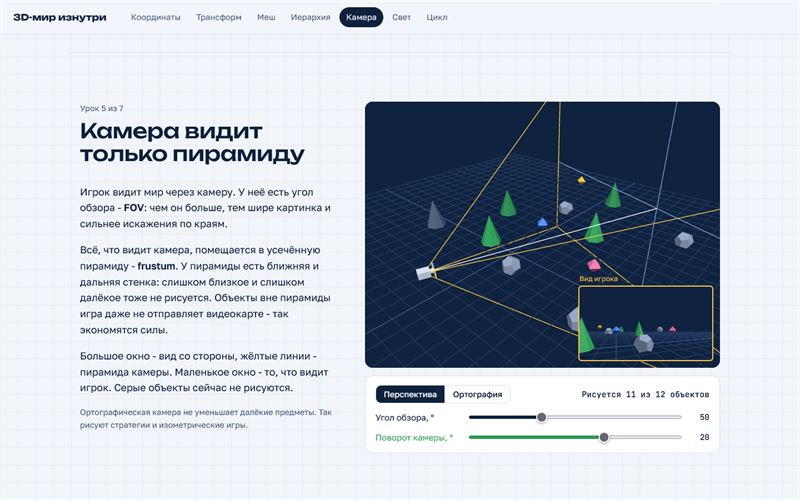
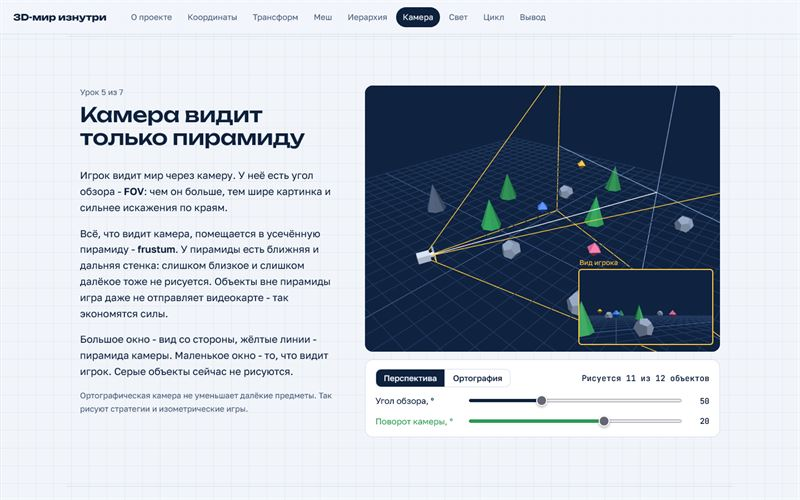
3D-мир в играх: сайт оформлен как проектная работа
- новые скриншоты живого сайта: пометка «Проектная работа» на первом
  экране, разделы «О проекте» (паспорт проекта) и «Вывод» с источниками
- разбор: в «Что сделано» разделы «О проекте» и «Вывод и источники»,
  сетка 2×3 из скриншотов, 2 коммита и 2034 строки вместо 1 и 1917
- галерея на главной: снимок раздела «О проекте»

Changed region(s): [[0.4375, 0.15, 0.9062, 0.9], [0.0938, 0.18, 0.4062, 0.87], [0.1562, 0.0, 0.6875, 0.06]]

diff --git a/ru/cases/3d-space-in-games/index.html b/ru/cases/3d-space-in-games/index.html
@@ -57,15 +57,15 @@
     <p class="case-lead reveal d1">Интерактивный учебник для защиты студенческого проекта: семь коротких уроков о том, как игры хранят и рисуют трёхмерный мир. В каждом уроке живая 3D-сцена, которую можно покрутить руками, а на первом экране робот идёт туда, куда кликнули.</p>
     <dl class="case-facts reveal d2">
       <div><dt>Тип</dt><dd>Проектная работа на заказ для студента, защищена на «отлично»</dd></div>
-      <div><dt>Сроки</dt><dd>27 сентября 2026, 1&nbsp;коммит</dd></div>
-      <div><dt>Стек</dt><dd>HTML, CSS, JavaScript и three.js без сборщика · 1917&nbsp;строк</dd></div>
+      <div><dt>Сроки</dt><dd>27 сентября 2026, 2&nbsp;коммита</dd></div>
+      <div><dt>Стек</dt><dd>HTML, CSS, JavaScript и three.js без сборщика · 2034&nbsp;строки</dd></div>
       <div><dt>Ссылки</dt><dd><a href="https://strangehul1-design.github.io/3d-space-in-games/" target="_blank" rel="noopener">живая страница&nbsp;↗</a><br><a href="https://github.com/strangehul1-design/3d-space-in-games" target="_blank" rel="noopener">код на GitHub&nbsp;↗</a></dd></div>
     </dl>
     <div class="shot-row reveal d3">
       <div>
         <button class="frame" type="button" data-gallery="shots" data-index="0" aria-label="Увеличить: первый экран на компьютере">
           <span class="frame__bar" translate="no">strangehul1-design.github.io/3d-space-in-games/</span>
-          <img src="../../../assets/img/cases/3d-space-in-games/sp-hero-1440-800.jpg" srcset="../../../assets/img/cases/3d-space-in-games/sp-hero-1440-800.jpg 800w, ../../../assets/img/cases/3d-space-in-games/sp-hero-1440-1440.jpg 1440w" sizes="(max-width: 1100px) 100vw, 55vw" width="1440" height="900" alt="Первый экран: заголовок «Как устроен 3D-мир в играх», справа 3D-робот на сетке с осями X, Y, Z идёт к зелёной метке, внизу координаты под курсором" fetchpriority="high">
+          <img src="../../../assets/img/cases/3d-space-in-games/sp-hero-1440-800.jpg" srcset="../../../assets/img/cases/3d-space-in-games/sp-hero-1440-800.jpg 800w, ../../../assets/img/cases/3d-space-in-games/sp-hero-1440-1440.jpg 1440w" sizes="(max-width: 1100px) 100vw, 55vw" width="1440" height="900" alt="Первый экран: пометка «Проектная работа», заголовок «Как устроен 3D-мир в играх», справа 3D-робот на сетке с осями X, Y, Z идёт к зелёной метке, внизу координаты под курсором" fetchpriority="high">
         </button>
         <p class="shot-caption">Первый экран: робот идёт к точке клика, ширина 1440px.</p>
       </div>
@@ -89,7 +89,7 @@
       <div class="case-block__label"><p class="kicker">01</p><h2 id="why">Для кого и зачем</h2></div>
       <div class="case-block__content prose">
         <p>Заказ от студента: ему нужен был сайт для защиты проекта о том, как устроено трёхмерное пространство в играх. Тема абстрактная — координаты, матрицы, камеры, — и на словах её легко потерять. Задача была показать каждое понятие так, чтобы его можно было потрогать: подвинуть ползунок, повернуть камеру, кликнуть по полу.</p>
-        <p>Поэтому каждый урок устроен одинаково: слева короткий текст простым языком, справа живая сцена и табло с цифрами, которые меняются вместе с ней. Проект защищён на «отлично».</p>
+        <p>Поэтому каждый урок устроен одинаково: слева короткий текст простым языком, справа живая сцена и табло с цифрами, которые меняются вместе с ней. Сам сайт оформлен как проектная работа: в начале актуальность, цель и задачи, в конце вывод и источники, а каждая задача ведёт к своему уроку. Проект защищён на «отлично».</p>
       </div>
     </section>
 
@@ -97,7 +97,8 @@
       <div class="case-block__label"><p class="kicker">02</p><h2 id="what">Что сделано</h2></div>
       <div class="case-block__content">
         <ol class="structure" aria-label="Разделы сайта">
-          <li><b>Первый экран</b><span>робот на сетке с осями: кликаешь по полу — идёт туда, а табло показывает координаты под курсором</span></li>
+          <li><b>Первый экран</b><span>пометка «Проектная работа» и робот на сетке с осями: кликаешь по полу — идёт туда, а табло показывает координаты под курсором</span></li>
+          <li><b>О проекте</b><span>актуальность, цель, восемь задач со ссылками на уроки и паспорт проекта в виде основной надписи чертежа</span></li>
           <li><b>Координаты</b><span>кристалл на ползунках X, Y, Z, пунктирные проекции на оси и таблица «какая ось смотрит вверх» в Unity, Unreal, Godot и Blender</span></li>
           <li><b>Трансформ</b><span>манипулятор, как в редакторах движков: перемещение, поворот и масштаб по клавишам W, E, R и таблица чисел</span></li>
           <li><b>Меш</b><span>сфера, бублик и камень в шести уровнях детализации: каркас, вершины, нормали и счётчик треугольников</span></li>
@@ -105,34 +106,47 @@
           <li><b>Камера</b><span>пирамида обзора со стороны и окно «вид игрока», перспектива и ортография, счётчик того, что рисуется</span></li>
           <li><b>Свет и материал</b><span>шероховатость, металличность, цвет, положение солнца и тени</span></li>
           <li><b>Игровой цикл</b><span>мини-игра на WASD с кристаллами, кадры в секунду, deltaTime и замедление времени</span></li>
+          <li><b>Вывод и источники</b><span>итог проекта и девять источников: документация three.js, Unity, Unreal и Godot, LearnOpenGL, MDN и Game Programming Patterns</span></li>
         </ol>
         <ul class="stack">
-          <li><b>Файлы</b>index.html — 303 строки, style.css — 313, десять JS-модулей — 1301: общий модуль сцены и по файлу на каждый урок.</li>
+          <li><b>Файлы</b>index.html — 369 строк, style.css — 364, десять JS-модулей — 1301: общий модуль сцены и по файлу на каждый урок.</li>
           <li><b>Библиотеки</b>three.js 0.170 подключается через importmap с jsDelivr, без сборщика. Модель робота — RobotExpressive из примеров three.js, лицензия CC0.</li>
           <li><b>Скорость</b>Сцена запускается за 400px до появления на экране и рисуется, только пока её видно. Плотность пикселей ограничена двумя.</li>
           <li><b>Адаптив</b>Одна точка перелома — 900px. На сенсорных экранах вместо подсказки про клавиатуру появляются кнопки-стрелки. При «уменьшить движение» декорации сами не вращаются.</li>
         </ul>
         <div class="shot-row shot-row--two">
           <div>
-            <button class="frame" type="button" data-gallery="shots" data-index="3" aria-label="Увеличить: урок про трансформ">
+            <button class="frame" type="button" data-gallery="shots" data-index="3" aria-label="Увеличить: раздел «О проекте»">
+              <span class="frame__bar" translate="no">…/3d-space-in-games/#about</span>
+              <img src="../../../assets/img/cases/3d-space-in-games/sp-about-1440-800.jpg" srcset="../../../assets/img/cases/3d-space-in-games/sp-about-1440-800.jpg 800w, ../../../assets/img/cases/3d-space-in-games/sp-about-1440-1440.jpg 1440w" sizes="(max-width: 900px) 100vw, 35vw" width="1440" height="900" alt="Раздел «О проекте»: актуальность, цель и задачи со ссылками на уроки, справа паспорт проекта в рамке — тема, вид работы, продукт, технологии" loading="lazy">
+            </button>
+          </div>
+          <div>
+            <button class="frame" type="button" data-gallery="shots" data-index="4" aria-label="Увеличить: вывод и источники">
+              <span class="frame__bar" translate="no">…/3d-space-in-games/#conclusion</span>
+              <img src="../../../assets/img/cases/3d-space-in-games/sp-conclusion-1440-800.jpg" srcset="../../../assets/img/cases/3d-space-in-games/sp-conclusion-1440-800.jpg 800w, ../../../assets/img/cases/3d-space-in-games/sp-conclusion-1440-1440.jpg 1440w" sizes="(max-width: 900px) 100vw, 35vw" width="1440" height="900" alt="Раздел «Вывод»: итог проекта, справа список из девяти источников со ссылками" loading="lazy">
+            </button>
+          </div>
+          <div>
+            <button class="frame" type="button" data-gallery="shots" data-index="5" aria-label="Увеличить: урок про трансформ">
               <span class="frame__bar" translate="no">…/3d-space-in-games/#transform</span>
               <img src="../../../assets/img/cases/3d-space-in-games/sp-transform-1440-800.jpg" srcset="../../../assets/img/cases/3d-space-in-games/sp-transform-1440-800.jpg 800w, ../../../assets/img/cases/3d-space-in-games/sp-transform-1440-1440.jpg 1440w" sizes="(max-width: 900px) 100vw, 35vw" width="1440" height="900" alt="Урок 2: робот с кольцами поворота вокруг него и таблица позиции, поворота и масштаба" loading="lazy">
             </button>
           </div>
           <div>
-            <button class="frame" type="button" data-gallery="shots" data-index="4" aria-label="Увеличить: урок про меш">
+            <button class="frame" type="button" data-gallery="shots" data-index="6" aria-label="Увеличить: урок про меш">
               <span class="frame__bar" translate="no">…/3d-space-in-games/#mesh</span>
               <img src="../../../assets/img/cases/3d-space-in-games/sp-mesh-1440-800.jpg" srcset="../../../assets/img/cases/3d-space-in-games/sp-mesh-1440-800.jpg 800w, ../../../assets/img/cases/3d-space-in-games/sp-mesh-1440-1440.jpg 1440w" sizes="(max-width: 900px) 100vw, 35vw" width="1440" height="900" alt="Урок 3: синий бублик с белым каркасом, жёлтыми вершинами и розовыми стрелками нормалей, под ним 560 треугольников и 280 вершин" loading="lazy">
             </button>
           </div>
           <div>
-            <button class="frame" type="button" data-gallery="shots" data-index="5" aria-label="Увеличить: урок про камеру">
+            <button class="frame" type="button" data-gallery="shots" data-index="7" aria-label="Увеличить: урок про камеру">
               <span class="frame__bar" translate="no">…/3d-space-in-games/#camera</span>
               <img src="../../../assets/img/cases/3d-space-in-games/sp-camera-1440-800.jpg" srcset="../../../assets/img/cases/3d-space-in-games/sp-camera-1440-800.jpg 800w, ../../../assets/img/cases/3d-space-in-games/sp-camera-1440-1440.jpg 1440w" sizes="(max-width: 900px) 100vw, 35vw" width="1440" height="900" alt="Урок 5: жёлтые линии пирамиды обзора идут от камеры по сцене с деревьями и камнями, в углу окно «Вид игрока»" loading="lazy">
             </button>
           </div>
           <div>
-            <button class="frame" type="button" data-gallery="shots" data-index="6" aria-label="Увеличить: мини-игра">
+            <button class="frame" type="button" data-gallery="shots" data-index="8" aria-label="Увеличить: мини-игра">
               <span class="frame__bar" translate="no">…/3d-space-in-games/#loop</span>
               <img src="../../../assets/img/cases/3d-space-in-games/sp-loop-1440-800.jpg" srcset="../../../assets/img/cases/3d-space-in-games/sp-loop-1440-800.jpg 800w, ../../../assets/img/cases/3d-space-in-games/sp-loop-1440-1440.jpg 1440w" sizes="(max-width: 900px) 100vw, 35vw" width="1440" height="900" alt="Урок 7: робот на поле с кристаллом, рядом код игрового цикла и табло: 60 кадров в секунду, dt 16,7 мс, кристаллы 1 из 5" loading="lazy">
             </button>
@@ -251,6 +265,8 @@
  {"src":"../../../assets/img/cases/3d-space-in-games/sp-hero-1440","w":1440,"h":900,"widths":[800,1440],"caption":"Первый экран: робот идёт к точке клика, 1440px"},
  {"src":"../../../assets/img/cases/3d-space-in-games/m-sp-hero","w":1179,"h":1977,"widths":[393,786],"caption":"Первый экран на телефоне, 393px"},
  {"src":"../../../assets/img/cases/3d-space-in-games/m-sp-coords","w":1179,"h":1977,"widths":[393,786],"caption":"Урок 1 на телефоне: координаты"},
+ {"src":"../../../assets/img/cases/3d-space-in-games/sp-about-1440","w":1440,"h":900,"widths":[800,1440],"caption":"О проекте: актуальность, цель, задачи и паспорт проекта"},
+ {"src":"../../../assets/img/cases/3d-space-in-games/sp-conclusion-1440","w":1440,"h":900,"widths":[800,1440],"caption":"Вывод и девять источников"},
  {"src":"../../../assets/img/cases/3d-space-in-games/sp-transform-1440","w":1440,"h":900,"widths":[800,1440],"caption":"Урок 2: манипулятор, как в редакторах движков"},
  {"src":"../../../assets/img/cases/3d-space-in-games/sp-mesh-1440","w":1440,"h":900,"widths":[800,1440],"caption":"Урок 3: треугольники, вершины и нормали"},
  {"src":"../../../assets/img/cases/3d-space-in-games/sp-camera-1440","w":1440,"h":900,"widths":[800,1440],"caption":"Урок 5: пирамида камеры и вид игрока"},

diff --git a/cases/3d-space-in-games/index.html b/cases/3d-space-in-games/index.html
@@ -57,15 +57,15 @@
     <p class="case-lead reveal d1">An interactive textbook for a student’s project defence: seven short lessons on how games store and draw a three-dimensional world. Every lesson has a live 3D scene you can play with, and on the first screen a robot walks wherever you click. The site itself is in Russian.</p>
     <dl class="case-facts reveal d2">
       <div><dt>Type</dt><dd>Commissioned project for a student, defended with the top grade</dd></div>
-      <div><dt>Date</dt><dd>September 27, 2026, 1&nbsp;commit</dd></div>
-      <div><dt>Stack</dt><dd>HTML, CSS, JavaScript and three.js, no bundler · 1,917&nbsp;lines</dd></div>
+      <div><dt>Date</dt><dd>September 27, 2026, 2&nbsp;commits</dd></div>
+      <div><dt>Stack</dt><dd>HTML, CSS, JavaScript and three.js, no bundler · 2,034&nbsp;lines</dd></div>
       <div><dt>Links</dt><dd><a href="https://strangehul1-design.github.io/3d-space-in-games/" target="_blank" rel="noopener">live page&nbsp;↗</a><br><a href="https://github.com/strangehul1-design/3d-space-in-games" target="_blank" rel="noopener">code on GitHub&nbsp;↗</a></dd></div>
     </dl>
     <div class="shot-row reveal d3">
       <div>
         <button class="frame" type="button" data-gallery="shots" data-index="0" aria-label="Enlarge: first screen on desktop">
           <span class="frame__bar" translate="no">strangehul1-design.github.io/3d-space-in-games/</span>
-          <img src="../../assets/img/cases/3d-space-in-games/sp-hero-1440-800.jpg" srcset="../../assets/img/cases/3d-space-in-games/sp-hero-1440-800.jpg 800w, ../../assets/img/cases/3d-space-in-games/sp-hero-1440-1440.jpg 1440w" sizes="(max-width: 1100px) 100vw, 55vw" width="1440" height="900" alt="First screen: a Russian headline, a 3D robot on a grid with X, Y and Z axes walking to a green marker, and the cursor’s coordinates below" fetchpriority="high">
+          <img src="../../assets/img/cases/3d-space-in-games/sp-hero-1440-800.jpg" srcset="../../assets/img/cases/3d-space-in-games/sp-hero-1440-800.jpg 800w, ../../assets/img/cases/3d-space-in-games/sp-hero-1440-1440.jpg 1440w" sizes="(max-width: 1100px) 100vw, 55vw" width="1440" height="900" alt="First screen: a “Project work” label, a Russian headline, a 3D robot on a grid with X, Y and Z axes walking to a green marker, and the cursor’s coordinates below" fetchpriority="high">
         </button>
         <p class="shot-caption">First screen: the robot walks to the clicked point, 1440px wide.</p>
       </div>
@@ -89,7 +89,7 @@
       <div class="case-block__label"><p class="kicker">01</p><h2 id="why">Who it’s for and why</h2></div>
       <div class="case-block__content prose">
         <p>Commissioned by a student who needed a website for a project defence on how three-dimensional space works in games. The topic is abstract — coordinates, matrices, cameras — and easy to lose in words. The goal was to show every idea in a way you can touch: move a slider, turn the camera, click the floor.</p>
-        <p>So every lesson follows the same pattern: a short plain-language text on the left, a live scene on the right and a panel with numbers that change along with it. The student defended the project with the top grade.</p>
+        <p>So every lesson follows the same pattern: a short plain-language text on the left, a live scene on the right and a panel with numbers that change along with it. The site itself is laid out as a project paper: relevance, goal and tasks at the start, a conclusion and sources at the end, with every task linking to its lesson. The student defended the project with the top grade.</p>
       </div>
     </section>
 
@@ -97,7 +97,8 @@
       <div class="case-block__label"><p class="kicker">02</p><h2 id="what">What was built</h2></div>
       <div class="case-block__content">
         <ol class="structure" aria-label="Site sections">
-          <li><b>First screen</b><span>a robot on a grid with axes: click the floor and it walks there, while a panel shows the coordinates under the cursor</span></li>
+          <li><b>First screen</b><span>a “Project work” label and a robot on a grid with axes: click the floor and it walks there, while a panel shows the coordinates under the cursor</span></li>
+          <li><b>About the project</b><span>relevance, the goal, eight tasks linking to the lessons and a project passport styled as a drawing title block</span></li>
           <li><b>Coordinates</b><span>a crystal on X, Y and Z sliders, dashed projections onto the axes and a table of which axis points up in Unity, Unreal, Godot and Blender</span></li>
           <li><b>Transform</b><span>a gizmo like in game engine editors: move, rotate and scale with the W, E and R keys, plus a table of numbers</span></li>
           <li><b>Mesh</b><span>a sphere, a torus and a rock at six levels of detail: wireframe, vertices, normals and a triangle counter</span></li>
@@ -105,34 +106,47 @@
           <li><b>Camera</b><span>the view frustum from the side and a “player view” window, perspective and orthographic modes, a counter of what gets drawn</span></li>
           <li><b>Light and material</b><span>roughness, metalness, colour, the sun’s position and shadows</span></li>
           <li><b>Game loop</b><span>a WASD mini game with crystals, frames per second, deltaTime and slow motion</span></li>
+          <li><b>Conclusion and sources</b><span>the project’s summary and nine sources: three.js, Unity, Unreal and Godot docs, LearnOpenGL, MDN and Game Programming Patterns</span></li>
         </ol>
         <ul class="stack">
-          <li><b>Files</b>index.html — 303 lines, style.css — 313, ten JS modules — 1,301: a shared scene module and one file per lesson.</li>
+          <li><b>Files</b>index.html — 369 lines, style.css — 364, ten JS modules — 1,301: a shared scene module and one file per lesson.</li>
           <li><b>Libraries</b>three.js 0.170 via an importmap from jsDelivr, no bundler. The robot is RobotExpressive from the three.js examples, CC0 licence.</li>
           <li><b>Speed</b>A scene is created 400px before it scrolls into view and drawn only while it is visible. Pixel density is capped at 2.</li>
           <li><b>Responsive</b>One breakpoint at 900px. On touch screens arrow buttons replace the keyboard hint. With “reduce motion” the decorations stop spinning on their own.</li>
         </ul>
         <div class="shot-row shot-row--two">
           <div>
-            <button class="frame" type="button" data-gallery="shots" data-index="3" aria-label="Enlarge: the transform lesson">
+            <button class="frame" type="button" data-gallery="shots" data-index="3" aria-label="Enlarge: the About the project section">
+              <span class="frame__bar" translate="no">…/3d-space-in-games/#about</span>
+              <img src="../../assets/img/cases/3d-space-in-games/sp-about-1440-800.jpg" srcset="../../assets/img/cases/3d-space-in-games/sp-about-1440-800.jpg 800w, ../../assets/img/cases/3d-space-in-games/sp-about-1440-1440.jpg 1440w" sizes="(max-width: 900px) 100vw, 35vw" width="1440" height="900" alt="About the project: relevance, goal and tasks linking to the lessons, with a framed project passport on the right — topic, type of work, product, technologies" loading="lazy">
+            </button>
+          </div>
+          <div>
+            <button class="frame" type="button" data-gallery="shots" data-index="4" aria-label="Enlarge: conclusion and sources">
+              <span class="frame__bar" translate="no">…/3d-space-in-games/#conclusion</span>
+              <img src="../../assets/img/cases/3d-space-in-games/sp-conclusion-1440-800.jpg" srcset="../../assets/img/cases/3d-space-in-games/sp-conclusion-1440-800.jpg 800w, ../../assets/img/cases/3d-space-in-games/sp-conclusion-1440-1440.jpg 1440w" sizes="(max-width: 900px) 100vw, 35vw" width="1440" height="900" alt="Conclusion section: the project’s summary with a list of nine linked sources on the right" loading="lazy">
+            </button>
+          </div>
+          <div>
+            <button class="frame" type="button" data-gallery="shots" data-index="5" aria-label="Enlarge: the transform lesson">
               <span class="frame__bar" translate="no">…/3d-space-in-games/#transform</span>
               <img src="../../assets/img/cases/3d-space-in-games/sp-transform-1440-800.jpg" srcset="../../assets/img/cases/3d-space-in-games/sp-transform-1440-800.jpg 800w, ../../assets/img/cases/3d-space-in-games/sp-transform-1440-1440.jpg 1440w" sizes="(max-width: 900px) 100vw, 35vw" width="1440" height="900" alt="Lesson 2: the robot with rotation rings around it and a table of position, rotation and scale" loading="lazy">
             </button>
           </div>
           <div>
-            <button class="frame" type="button" data-gallery="shots" data-index="4" aria-label="Enlarge: the mesh lesson">
+            <button class="frame" type="button" data-gallery="shots" data-index="6" aria-label="Enlarge: the mesh lesson">
               <span class="frame__bar" translate="no">…/3d-space-in-games/#mesh</span>
               <img src="../../assets/img/cases/3d-space-in-games/sp-mesh-1440-800.jpg" srcset="../../assets/img/cases/3d-space-in-games/sp-mesh-1440-800.jpg 800w, ../../assets/img/cases/3d-space-in-games/sp-mesh-1440-1440.jpg 1440w" sizes="(max-width: 900px) 100vw, 35vw" width="1440" height="900" alt="Lesson 3: a blue torus with a white wireframe, yellow vertices and pink normal arrows; 560 triangles and 280 vertices below" loading="lazy">
             </button>
           </div>
           <div>
-            <button class="frame" type="button" data-gallery="shots" data-index="5" aria-label="Enlarge: the camera lesson">
+            <button class="frame" type="button" data-gallery="shots" data-index="7" aria-label="Enlarge: the camera lesson">
               <span class="frame__bar" translate="no">…/3d-space-in-games/#camera</span>
               <img src="../../assets/img/cases/3d-space-in-games/sp-camera-1440-800.jpg" srcset="../../assets/img/cases/3d-space-in-games/sp-camera-1440-800.jpg 800w, ../../assets/img/cases/3d-space-in-games/sp-camera-1440-1440.jpg 1440w" sizes="(max-width: 900px) 100vw, 35vw" width="1440" height="900" alt="Lesson 5: yellow frustum lines run from the camera across a scene with trees and rocks, with a player view window in the corner" loading="lazy">
             </button>
           </div>
           <div>
-            <button class="frame" type="button" data-gallery="shots" data-index="6" aria-label="Enlarge: the mini game">
+            <button class="frame" type="button" data-gallery="shots" data-index="8" aria-label="Enlarge: the mini game">
               <span class="frame__bar" translate="no">…/3d-space-in-games/#loop</span>
               <img src="../../assets/img/cases/3d-space-in-games/sp-loop-1440-800.jpg" srcset="../../assets/img/cases/3d-space-in-games/sp-loop-1440-800.jpg 800w, ../../assets/img/cases/3d-space-in-games/sp-loop-1440-1440.jpg 1440w" sizes="(max-width: 900px) 100vw, 35vw" width="1440" height="900" alt="Lesson 7: the robot on a field with a crystal, the game loop code next to it and a panel: 60 frames per second, dt 16.7 ms, 1 of 5 crystals" loading="lazy">
             </button>
@@ -251,6 +265,8 @@
  {"src":"../../assets/img/cases/3d-space-in-games/sp-hero-1440","w":1440,"h":900,"widths":[800,1440],"caption":"First screen: the robot walks to the clicked point, 1440px"},
  {"src":"../../assets/img/cases/3d-space-in-games/m-sp-hero","w":1179,"h":1977,"widths":[393,786],"caption":"First screen on a phone, 393px"},
  {"src":"../../assets/img/cases/3d-space-in-games/m-sp-coords","w":1179,"h":1977,"widths":[393,786],"caption":"Lesson 1 on a phone: coordinates"},
+ {"src":"../../assets/img/cases/3d-space-in-games/sp-about-1440","w":1440,"h":900,"widths":[800,1440],"caption":"About the project: relevance, goal, tasks and the project passport"},
+ {"src":"../../assets/img/cases/3d-space-in-games/sp-conclusion-1440","w":1440,"h":900,"widths":[800,1440],"caption":"Conclusion and nine sources"},
  {"src":"../../assets/img/cases/3d-space-in-games/sp-transform-1440","w":1440,"h":900,"widths":[800,1440],"caption":"Lesson 2: a transform gizmo, like in game engine editors"},
  {"src":"../../assets/img/cases/3d-space-in-games/sp-mesh-1440","w":1440,"h":900,"widths":[800,1440],"caption":"Lesson 3: triangles, vertices and normals"},
  {"src":"../../assets/img/cases/3d-space-in-games/sp-camera-1440","w":1440,"h":900,"widths":[800,1440],"caption":"Lesson 5: the camera frustum and the player’s view"},

diff --git a/ru/index.html b/ru/index.html
@@ -298,7 +298,7 @@
             <div class="shots">
               <button class="frame wipe" type="button" data-gallery="space" data-index="0" aria-label="Увеличить скриншот: первый экран «Как устроен 3D-мир в играх» на компьютере">
                 <span class="frame__bar" translate="no">…/3d-space-in-games/</span>
-                <img src="../assets/img/cases/3d-space-in-games/sp-hero-1440-800.jpg" srcset="../assets/img/cases/3d-space-in-games/sp-hero-1440-800.jpg 800w, ../assets/img/cases/3d-space-in-games/sp-hero-1440-1440.jpg 1440w" sizes="(max-width: 1000px) 100vw, 58vw" width="1440" height="900" alt="Первый экран: заголовок «Как устроен 3D-мир в играх», справа 3D-робот на сетке с осями X, Y, Z идёт к зелёной метке, внизу координаты под курсором" loading="lazy" decoding="async">
+                <img src="../assets/img/cases/3d-space-in-games/sp-hero-1440-800.jpg" srcset="../assets/img/cases/3d-space-in-games/sp-hero-1440-800.jpg 800w, ../assets/img/cases/3d-space-in-games/sp-hero-1440-1440.jpg 1440w" sizes="(max-width: 1000px) 100vw, 58vw" width="1440" height="900" alt="Первый экран: пометка «Проектная работа», заголовок «Как устроен 3D-мир в играх», справа 3D-робот на сетке с осями X, Y, Z идёт к зелёной метке, внизу координаты под курсором" loading="lazy" decoding="async">
               </button>
               <button class="frame frame--phone wipe" type="button" data-gallery="space" data-index="1" aria-label="Увеличить скриншот: «Как устроен 3D-мир в играх» на телефоне">
                 <img src="../assets/img/cases/3d-space-in-games/m-sp-hero-393.jpg" srcset="../assets/img/cases/3d-space-in-games/m-sp-hero-393.jpg 393w, ../assets/img/cases/3d-space-in-games/m-sp-hero-786.jpg 786w" sizes="(max-width: 760px) 30vw, 15vw" width="1179" height="1977" alt="Первый экран на телефоне" loading="lazy" decoding="async">
@@ -379,6 +379,7 @@
  "space": {"title": "Как устроен 3D-мир в играх", "images": [
   {"src": "../assets/img/cases/3d-space-in-games/sp-hero-1440", "w": 1440, "h": 900, "widths": [800, 1440], "caption": "Первый экран: робот идёт к точке клика, 1440px"},
   {"src": "../assets/img/cases/3d-space-in-games/m-sp-hero", "w": 1179, "h": 1977, "widths": [393, 786], "caption": "Первый экран на телефоне, 393px"},
+  {"src": "../assets/img/cases/3d-space-in-games/sp-about-1440", "w": 1440, "h": 900, "widths": [800, 1440], "caption": "О проекте: актуальность, цель, задачи и паспорт проекта"},
   {"src": "../assets/img/cases/3d-space-in-games/sp-transform-1440", "w": 1440, "h": 900, "widths": [800, 1440], "caption": "Урок 2: манипулятор, как в редакторах движков"},
   {"src": "../assets/img/cases/3d-space-in-games/sp-mesh-1440", "w": 1440, "h": 900, "widths": [800, 1440], "caption": "Урок 3: треугольники, вершины и нормали"},
   {"src": "../assets/img/cases/3d-space-in-games/sp-camera-1440", "w": 1440, "h": 900, "widths": [800, 1440], "caption": "Урок 5: пирамида камеры и вид игрока"},

diff --git a/index.html b/index.html
@@ -298,7 +298,7 @@
             <div class="shots">
               <button class="frame wipe" type="button" data-gallery="space" data-index="0" aria-label="Enlarge screenshot: How 3D Worlds Work in Games first screen on desktop">
                 <span class="frame__bar" translate="no">…/3d-space-in-games/</span>
-                <img src="assets/img/cases/3d-space-in-games/sp-hero-1440-800.jpg" srcset="assets/img/cases/3d-space-in-games/sp-hero-1440-800.jpg 800w, assets/img/cases/3d-space-in-games/sp-hero-1440-1440.jpg 1440w" sizes="(max-width: 1000px) 100vw, 58vw" width="1440" height="900" alt="First screen: a Russian headline, a 3D robot on a grid with X, Y and Z axes walking to a green marker, and the cursor’s coordinates below" loading="lazy" decoding="async">
+                <img src="assets/img/cases/3d-space-in-games/sp-hero-1440-800.jpg" srcset="assets/img/cases/3d-space-in-games/sp-hero-1440-800.jpg 800w, assets/img/cases/3d-space-in-games/sp-hero-1440-1440.jpg 1440w" sizes="(max-width: 1000px) 100vw, 58vw" width="1440" height="900" alt="First screen: a “Project work” label, a Russian headline, a 3D robot on a grid with X, Y and Z axes walking to a green marker, and the cursor’s coordinates below" loading="lazy" decoding="async">
               </button>
               <button class="frame frame--phone wipe" type="button" data-gallery="space" data-index="1" aria-label="Enlarge screenshot: How 3D Worlds Work in Games on a phone">
                 <img src="assets/img/cases/3d-space-in-games/m-sp-hero-393.jpg" srcset="assets/img/cases/3d-space-in-games/m-sp-hero-393.jpg 393w, assets/img/cases/3d-space-in-games/m-sp-hero-786.jpg 786w" sizes="(max-width: 760px) 30vw, 15vw" width="1179" height="1977" alt="First screen on a phone" loading="lazy" decoding="async">
@@ -379,6 +379,7 @@
  "space": {"title": "How 3D Worlds Work in Games", "images": [
   {"src": "assets/img/cases/3d-space-in-games/sp-hero-1440", "w": 1440, "h": 900, "widths": [800, 1440], "caption": "First screen: the robot walks to the clicked point, 1440px"},
   {"src": "assets/img/cases/3d-space-in-games/m-sp-hero", "w": 1179, "h": 1977, "widths": [393, 786], "caption": "First screen on a phone, 393px"},
+  {"src": "assets/img/cases/3d-space-in-games/sp-about-1440", "w": 1440, "h": 900, "widths": [800, 1440], "caption": "About the project: relevance, goal, tasks and the project passport"},
   {"src": "assets/img/cases/3d-space-in-games/sp-transform-1440", "w": 1440, "h": 900, "widths": [800, 1440], "caption": "Lesson 2: a transform gizmo, like in game engine editors"},
   {"src": "assets/img/cases/3d-space-in-games/sp-mesh-1440", "w": 1440, "h": 900, "widths": [800, 1440], "caption": "Lesson 3: triangles, vertices and normals"},
   {"src": "assets/img/cases/3d-space-in-games/sp-camera-1440", "w": 1440, "h": 900, "widths": [800, 1440], "caption": "Lesson 5: the camera frustum and the player’s view"},
